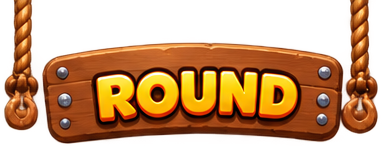
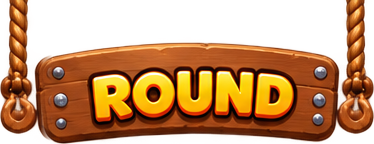
mole v943: 홈 ROUND 간판 왼쪽 밧줄 고리를 오른쪽과 똑같이(좌우 대칭)
Claude-Session: https://claude.ai/code/session_01LWSN3ftvj4Pts7rWjx2RvX

diff --git a/mole/index.html b/mole/index.html
@@ -872,7 +872,7 @@
       <div id="lane-button-bar">
         <!-- 배포 버전 표식(스크린샷으로 어느 버전인지 확인용) — 화면 좌하단에 두면 다른 UI에
              가려 잘 안 보인다는 사용자 지적으로, 하트 아이콘(다이얼패드 1번 칸) 바로 위로 이동. -->
-        <div id="build-tag" aria-hidden="true">v942</div>
+        <div id="build-tag" aria-hidden="true">v943</div>
         <!-- 피버타임(터치캐치 보너스타임) 전광판 — 버튼보드 자리를 통째로 덮는 오버레이,
              평소엔 hidden, 피버 중에만 콤보/잔여시간 표시(사용자 지정: "전광판처럼"). -->
         <div id="fever-scoreboard" class="fever-scoreboard" hidden>
@@ -1126,7 +1126,7 @@ window.FGH.rollOut = function (el, done) {
       } else {
         // ?v= 로 매 배포마다 URL을 바꿔서 GitHub Pages의 sw.js 캐시(max-age=600)를 무조건 우회 —
         // 안 그러면 배포 직후에도 최대 10분간 옛 서비스워커가 안 갈리는 경우가 있었음(사용자 보고).
-        navigator.serviceWorker.register('sw.js?v=942').catch(function () {});
+        navigator.serviceWorker.register('sw.js?v=943').catch(function () {});
       }
     });
   }

diff --git a/mole/sw.js b/mole/sw.js
@@ -3,7 +3,7 @@
 // 폴백 전용으로만 갱신한다. (예전엔 stale-while-revalidate라 배포해도 "다음 실행"에야
 // 반영돼 사용자 체감 대기가 길었음 — 온라인=항상 최신, 오프라인=마지막 캐시로 변경.)
 // SHELL 목록 자체가 바뀔 때만 CACHE 를 올린다.
-const CACHE = 'mole-game-v942';
+const CACHE = 'mole-game-v943';
 
 // 화면별 BGM(audio/bgm-*.mp3)은 v275 부터 SHELL 에 포함 — 기본 켜짐(v272)이라 항상 필요하고,
 // 캐시가 안 돼 있으면 오프라인/느린망에서 재생 실패했음.
